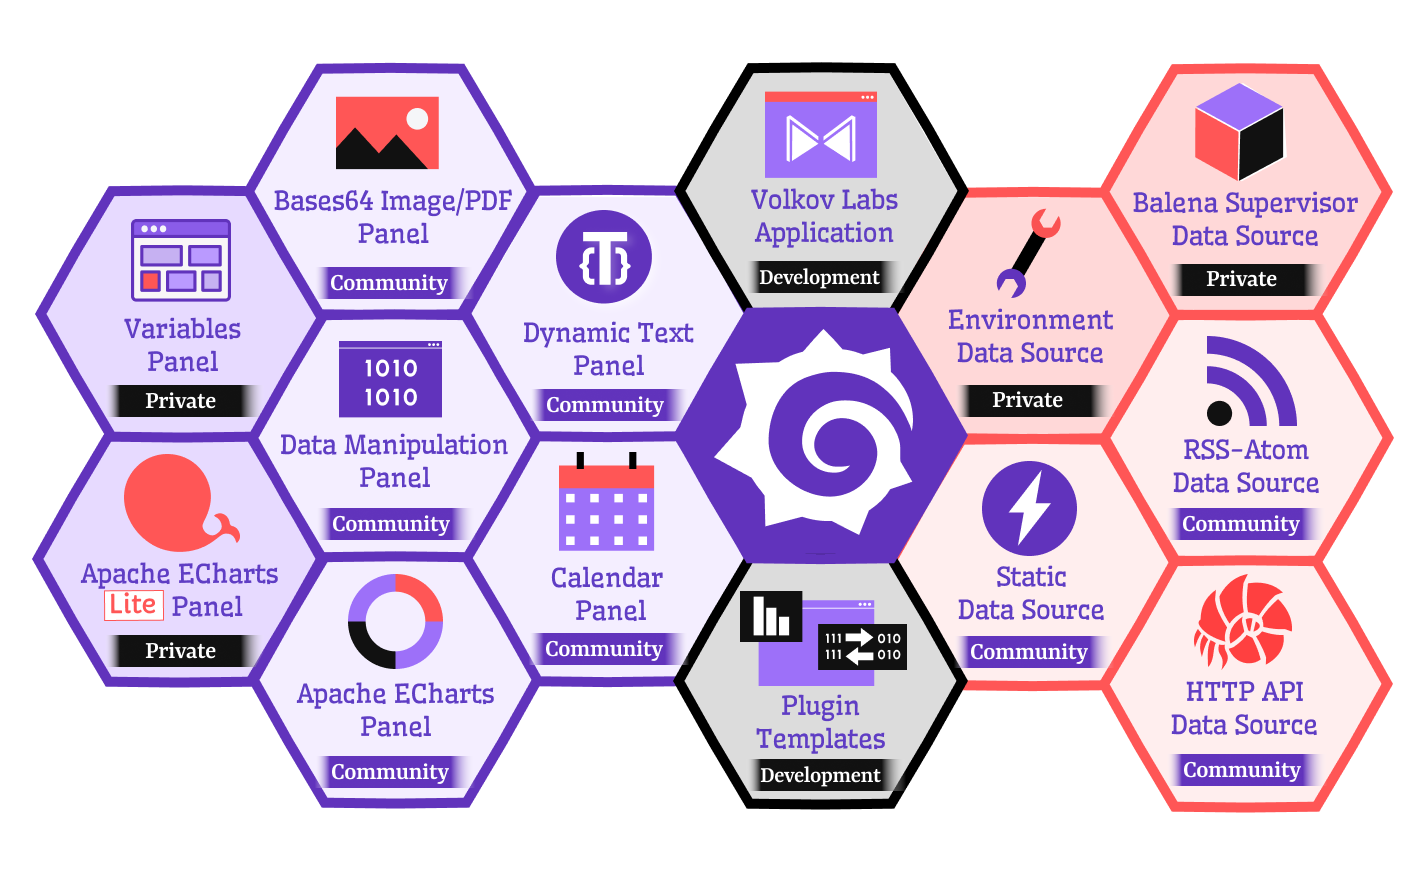
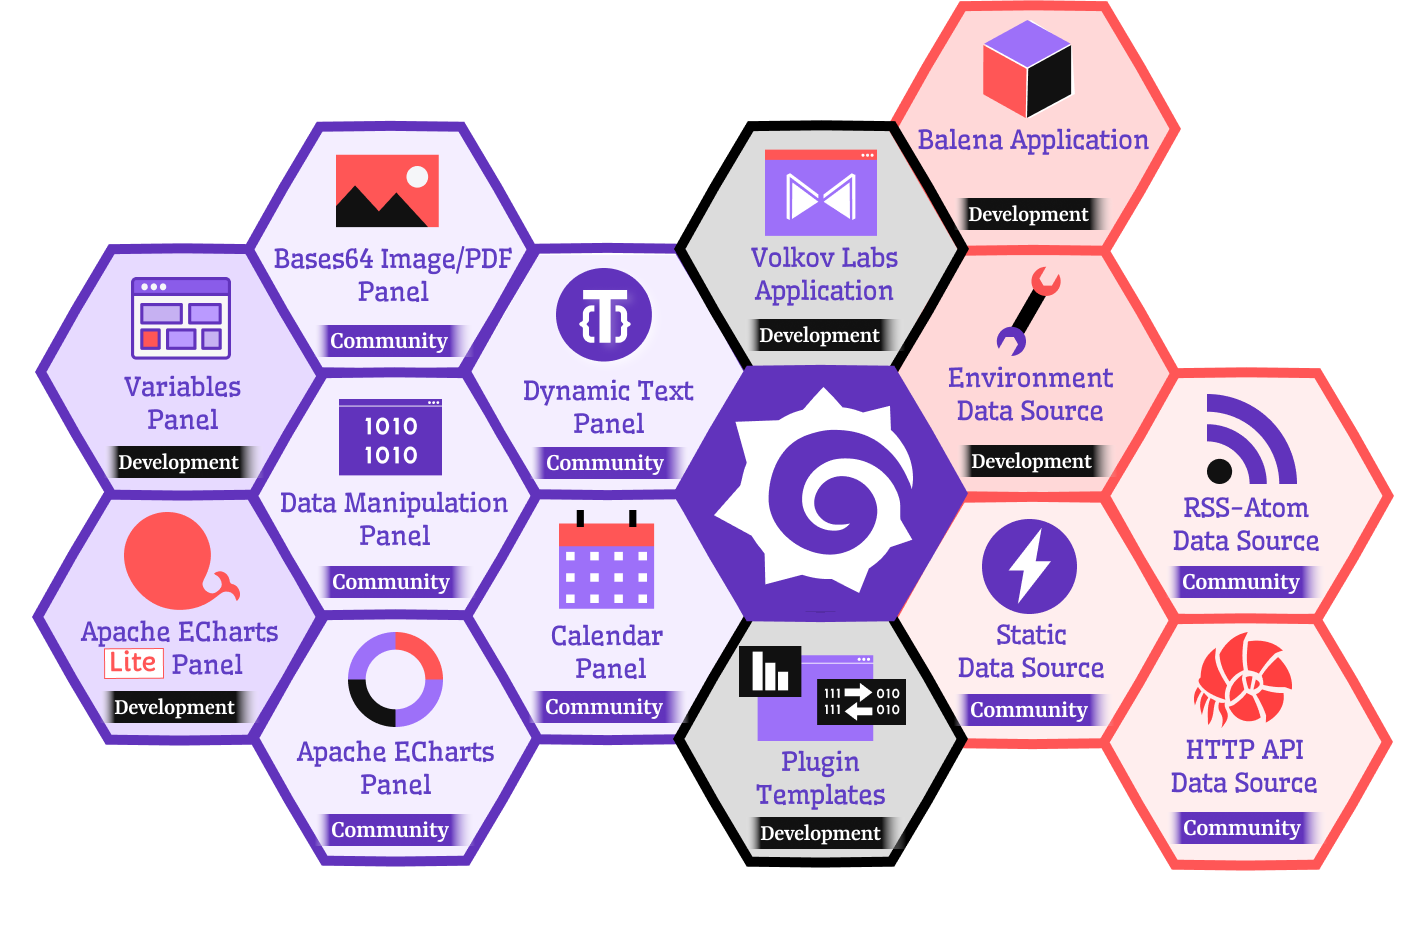
Update Private to Development plugins

diff --git a/src/pages/support.tsx b/src/pages/support.tsx
@@ -27,7 +27,7 @@ const Header = (siteConfig) => {
 
             <p className="hero__subtitle">
               The Premium Tier provides additional benefits such as GitHub
-              Discussions and support for Private plugins.
+              Discussions and support for Development plugins.
             </p>
             <div className="margin-vert--lg">
               <a
